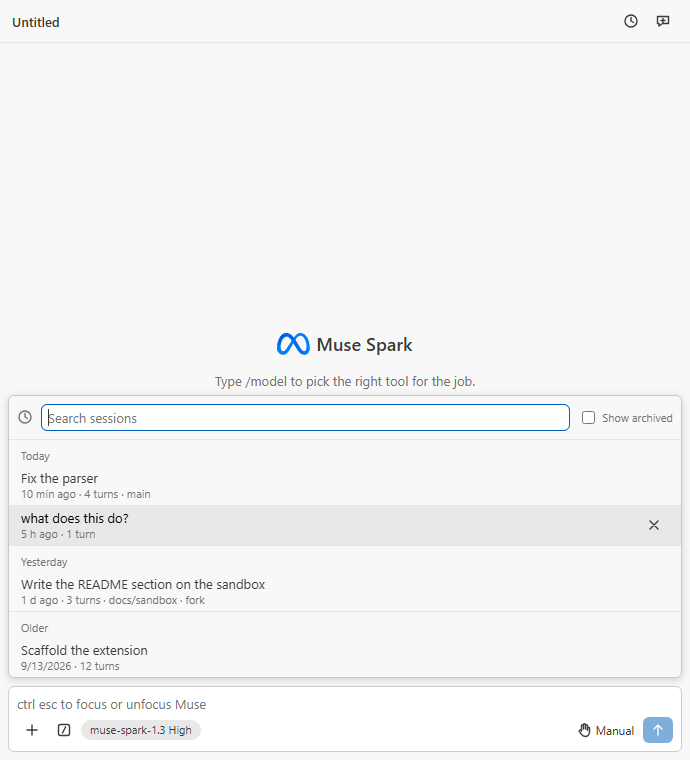
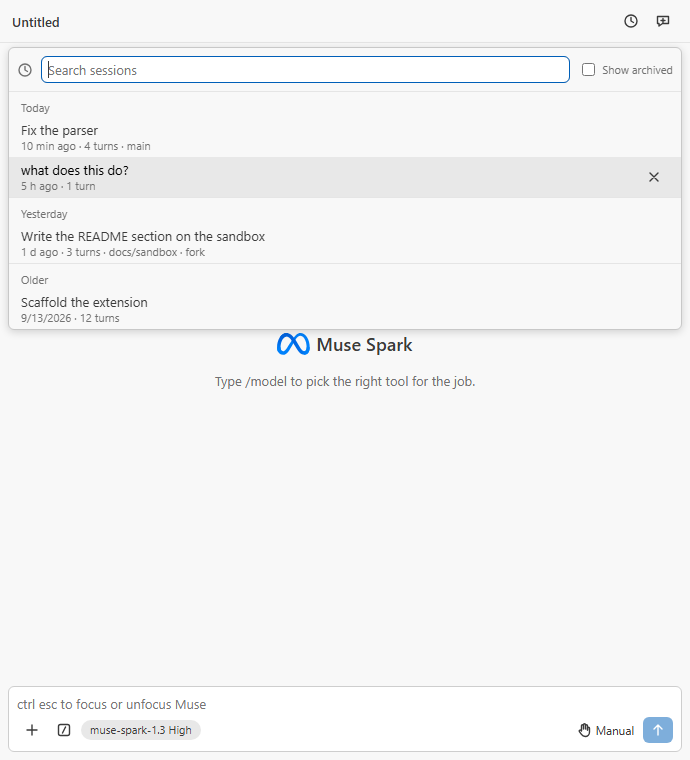
fix(webview): History button toggles and hangs from the header; toolbar fits narrow panels
Owner F5 findings on M6 (docs/certification/m6.md, Visual verification):

- The History button opened the dialog but could not close it: the click
  blurred the dialog's search box, which closed the dialog, and the click
  then reopened it. The button now swallows the mousedown so a second
  click toggles the dialog closed, as the composer's own buttons do.
- The dialog now hangs down from the header (a `.header-area` wrapper with
  `top: 100%`) instead of rising from the composer like the palette.
- The composer toolbar clipped the model pill at both ends in a narrow
  sidebar: the pill was a centred flex row (`text-overflow` cannot
  ellipsize a flex container) and the open-file chip could not shrink.
  The pill is now a block with a start-aligned ellipsis and a 3em floor,
  the left toolbar group gives way while the right keeps the mode button
  and Send whole, and a container query under 340px hides the context
  percentage and the mode label in favour of their icons. New `narrow`
  harness scenario (300px) and `m6-narrow.png`.

npm run quality tail:
  Test Files  58 passed (58)
       Tests  586 passed (586)
  ok   dist/extension.js: 125.0 KiB (budget 600 KiB)
  ok   dist/webview/main.js: 566.4 KiB (budget 900 KiB)
  found 0 vulnerabilities
  gitleaks: no leaks found
  semgrep: Findings: 0 (0 blocking)
  quality exit 0
npm run test:integration: 5 passing (VS Code 1.138.0)

diff --git a/src/webview/styles.css b/src/webview/styles.css
@@ -279,6 +279,9 @@ body {
   flex-direction: column;
   gap: 4px;
   margin: var(--ms-gap);
+
+  /* The toolbar adapts to the composer's width (a narrow sidebar). */
+  container-type: inline-size;
   padding: var(--ms-gap);
   border: 1px solid var(--vscode-input-border, var(--vscode-panel-border));
   border-radius: var(--ms-radius);
@@ -315,6 +318,23 @@ body {
   min-width: 0;
 }
 
+/* In a narrow panel the left group gives way (the pill and the open-file
+   chip ellipsize) and the right group keeps mode and Send whole. */
+.composer-toolbar-group:first-child {
+  flex: 1 1 auto;
+}
+
+.composer-toolbar-group:last-child {
+  flex-shrink: 0;
+}
+
+@container (max-width: 340px) {
+  .context-label,
+  .mode-button > span {
+    display: none;
+  }
+}
+
 /* --- controls (base) --- */
 
 .icon-button,
@@ -336,9 +356,13 @@ body {
   cursor: pointer;
 }
 
-/* The pill hugs its text (Claude Code sizing) instead of the control height. */
+/* The pill hugs its text (Claude Code sizing) instead of the control
+   height. Block layout, not flex: `text-overflow` only clips inline
+   content, and a centred flex row would clip both ends when squeezed. */
 .pill {
-  min-width: 0;
+  display: inline-block;
+  flex: 0 1 auto;
+  min-width: 3em;
   height: auto;
   overflow: hidden;
   padding: 1px 8px;
@@ -346,6 +370,7 @@ body {
   color: var(--vscode-badge-foreground);
   font-size: 0.85em;
   line-height: 1.4;
+  text-align: start;
   text-overflow: ellipsis;
   white-space: nowrap;
   background: var(--vscode-badge-background);
@@ -1272,8 +1297,10 @@ body {
 /* The open-file chip beside the model pill: a pill that hugs its text. */
 .editor-chip {
   display: inline-flex;
+  flex: 0 1 auto;
   gap: 4px;
   align-items: center;
+  min-width: 0;
   max-width: 220px;
   padding: 1px 4px 1px 6px;
   border: 1px solid var(--vscode-panel-border);
@@ -1285,8 +1312,13 @@ body {
 }
 
 .editor-chip-label {
+  min-width: 0;
   overflow: hidden;
   text-overflow: ellipsis;
+}
+
+.editor-chip .chip-remove {
+  flex-shrink: 0;
 }
 
 /* Open diff / Revert under an edit row. */
@@ -1320,6 +1352,18 @@ body {
   font: inherit;
   font-weight: 600;
   background: var(--vscode-input-background);
+}
+
+.header-area {
+  position: relative;
+}
+
+/* The History dialog hangs down from the header. */
+.history {
+  top: 100%;
+  bottom: auto;
+  margin-top: 4px;
+  margin-bottom: 0;
 }
 
 .history .palette-header {

diff --git a/src/webview/App.tsx b/src/webview/App.tsx
@@ -632,36 +632,39 @@ export function App({ postMessage, newLocalId = defaultLocalId, now = defaultNow
       )
       break
     }
-    case 'history': {
-      floating = (
-        <HistoryDialog
-          sessions={state.sessions}
-          archivedIds={state.archivedIds}
-          currentSessionId={state.sessionId}
-          archiveAfterDays={state.settings.archiveInactiveSessions}
-          now={now}
-          onResume={onResumeSession}
-          onSetArchived={onSetSessionArchived}
-          onClose={closeOverlay}
-        />
-      )
-      break
-    }
+    case 'history':
     case undefined: {
+      // The History dialog hangs from the header, not the composer.
       floating = null
       break
     }
   }
+  const history =
+    overlay === 'history' ? (
+      <HistoryDialog
+        sessions={state.sessions}
+        archivedIds={state.archivedIds}
+        currentSessionId={state.sessionId}
+        archiveAfterDays={state.settings.archiveInactiveSessions}
+        now={now}
+        onResume={onResumeSession}
+        onSetArchived={onSetSessionArchived}
+        onClose={closeOverlay}
+      />
+    ) : null
 
   return (
     <div className="app">
-      <Header
-        title={title}
-        isFocusView={state.settings.focusView}
-        onNewConversation={onNewConversation}
-        onOpenHistory={onOpenHistory}
-        onRename={state.sessionId === undefined ? undefined : onRename}
-      />
+      <div className="header-area">
+        <Header
+          title={title}
+          isFocusView={state.settings.focusView}
+          onNewConversation={onNewConversation}
+          onOpenHistory={onOpenHistory}
+          onRename={state.sessionId === undefined ? undefined : onRename}
+        />
+        {history}
+      </div>
       <main className={state.transcript.length === 0 ? 'body' : 'body body-transcript'}>
         {body}
       </main>

diff --git a/test/unit/App.test.tsx b/test/unit/App.test.tsx
@@ -784,6 +784,21 @@ describe('App session history (M6)', () => {
     expect(document.activeElement).toBe(textarea())
   })
 
+  it('toggles the History dialog closed from the same button, hanging from the header', () => {
+    renderReady()
+    const button = screen.getByLabelText('Session history')
+    fireEvent.click(button)
+    const dialog = screen.getByRole('dialog', { name: 'History' })
+    expect(dialog.parentElement).toHaveClass('header-area')
+    expect(dialog.parentElement?.querySelector('.header')).not.toBeNull()
+    // The mousedown is swallowed so the search box keeps focus and the
+    // click toggles instead of blur-closing and reopening.
+    expect(fireEvent.mouseDown(button)).toBe(false)
+    fireEvent.click(button)
+    expect(screen.queryByRole('dialog')).toBeNull()
+    expect(document.activeElement).toBe(textarea())
+  })
+
   it('opens the History dialog from the palette Resume row', () => {
     const postMessage = renderReady()
     const filter = openPalette()

diff --git a/test/harness/index.html b/test/harness/index.html
@@ -708,6 +708,25 @@
           })
           later(50, () => setDraft('what does this do?'))
         },
+        // A sidebar-narrow panel with everything the toolbar can hold.
+        narrow: () => {
+          document.body.style.maxWidth = '300px'
+          send({
+            type: 'editorContext',
+            context: {
+              relativePath: 'src/ventura-weather-today.md',
+              startLine: 1,
+              endLine: 1,
+              isEmpty: true,
+            },
+          })
+          event({
+            type: 'contextUsage',
+            usedTokens: 20_160,
+            windowTokens: 1_007_997,
+            pressure: 'low',
+          })
+        },
         // --- M4 transcript scenarios: events shaped as the live capture ---
         markdown: () => {
           event({ type: 'turnStarted', turnId: 'tm' })

diff --git a/src/webview/components/Header.tsx b/src/webview/components/Header.tsx
@@ -92,6 +92,12 @@ export function Header({
           title={UI_TEXT.historyTitle}
           aria-label={UI_TEXT.historyTitle}
           disabled={onOpenHistory === undefined}
+          onMouseDown={(event) => {
+            // Keep the dialog's search box focused so a second click
+            // toggles the dialog closed instead of blurring it shut and
+            // reopening it.
+            event.preventDefault()
+          }}
           onClick={onOpenHistory}
         >
           <HistoryIcon />

diff --git a/docs/certification/m6.md b/docs/certification/m6.md
@@ -143,7 +143,23 @@ the session name in the header, two user cards including one with a
 replayed image chip `image/png 686×695`, the reasoning, Read and Edit rows
 with **Open diff** / **Revert**, and the `Resumed Fix the parser` notice).
 The **Fork from here** button is hover-only and does not appear in a
-headless shot; its behaviour is unit-tested. Owner F5 check pending.
+headless shot; its behaviour is unit-tested.
+
+Owner F5 check (2026-09-22, sidebar in this repo's window): the history
+restore worked (a weather-report conversation held with the panel came
+back in the sidebar), the Fork from here hover control and its tooltip
+work. Two findings fixed the same day: the History button opened but did
+not close the dialog (its click blurred the search box, which closed the
+dialog, and then reopened it — the button now swallows the mousedown so a
+click toggles, as the composer buttons do), and the dialog now hangs from
+the header instead of rising from the composer. The owner's screenshot of a
+narrow sidebar also showed the model pill clipped at both ends: the pill
+was a centred flex row (`text-overflow` cannot ellipsize a flex container,
+and a centred row clips both ends when squeezed) and the open-file chip
+could not shrink. The pill is now a block with a start-aligned ellipsis, the
+left toolbar group gives way while the right one keeps mode and Send whole,
+and under 340 px the context percentage and the mode label give way to the
+icons (`m6-narrow.png`, the `narrow` harness scenario at 300 px).
 
 ## Security
 

diff --git a/CHANGELOG.md b/CHANGELOG.md
@@ -196,6 +196,17 @@ setup` through the UAC prompt, re-checks, and reports. The new command
   host ⇄ webview messages (`init`, `settingsChanged`, `focusInput`,
   `insertText`, `ready`, `inputFocusChanged`, `openNewTab`).
 
+### Fixed
+
+- The History button toggles the dialog closed as well as open (its click
+  used to blur the search box shut and reopen it), and the dialog hangs
+  from the header rather than rising from the composer.
+- The composer toolbar fits a narrow sidebar: the model pill ellipsizes
+  instead of clipping both ends (it was a centred flex row), the open-file
+  chip shrinks, the right-hand group keeps the mode button and Send whole,
+  and under 340 px the context percentage and the mode label give way to
+  their icons.
+
 ### Changed
 
 - The model pill reads `model effort` (the context window moved to the model
